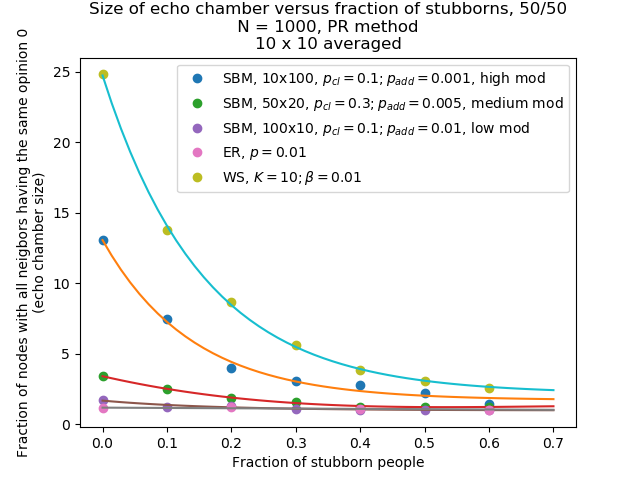
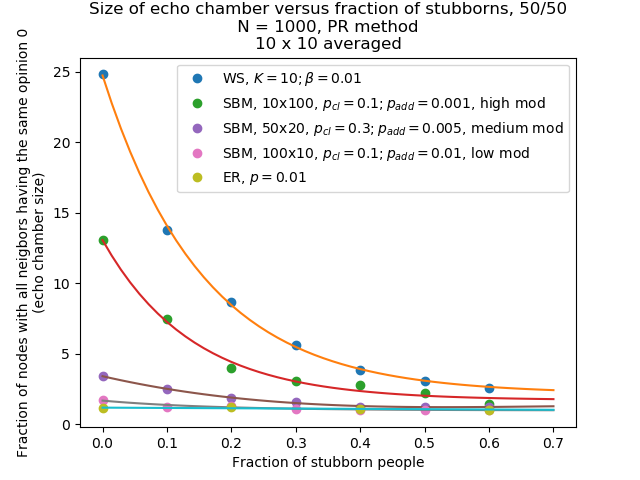
tried to implement way to calculate variance for the echo chambers; not sure if correct yet

diff --git a/main.cpp b/main.cpp
@@ -25,24 +25,24 @@ void distr_of_friends(){
     double p_bern = 0.1;
 
     // part needed for clustered random network
-    /*ifstream file;
+    ifstream file;
     file.open("Community_sizes_powerlaw.txt", ios::in);
     if(!file){
         cout << "No such file";
-    }*/
-    double p_add = 0.005;
-    vector<int> clusterSizes(50); // length of this vector determines the number of cluster and the elements determine the size of each cluster
-    vector<double> edgeProbs(50);
-    /*double x;
+    }
+    double p_add = 0.001;
+    vector<int> clusterSizes = {}; // length of this vector determines the number of cluster and the elements determine the size of each cluster
+    vector<double> edgeProbs = {};
+    double x;
     while (file >> x){
         clusterSizes.push_back(x);
         edgeProbs.push_back(0.5);
     }
-    file.close();*/
-    for (int i = 0; i < clusterSizes.size(); i++){
-        clusterSizes[i] = 20;
-        edgeProbs[i] = 0.3;
-    }
+    file.close();
+    /*for (int i = 0; i < clusterSizes.size(); i++){
+        clusterSizes[i] = 100;
+        edgeProbs[i] = 0.1;
+    }*/
 
     vector<double> fractionAt0(N);
     vector<double> fractionAt500(N);
@@ -51,30 +51,57 @@ void distr_of_friends(){
     vector<int> neighOp1HistAt500(numberOfBins);
     vector<int> neighOp1HistAt0(numberOfBins);
 
-    //double mod = 0.;
-    int stubborn = 0;
+    // needed to calculate variance (see https://jonisalonen.com/2013/deriving-welfords-method-for-computing-variance/)
+   /* double meanAt0op0 = 0.;
+    double oldMeanAt0op0 = 0.;
+    double meanAt0op1 = 0.;
+    double oldMeanAt0op1 = 0.;
+    double varAt0op0 = 0.;
+    double varAt0op1 = 0.;
+
+    double meanAt500op0 = 0.;
+    double oldMeanAt500op0 = 0.;
+    double meanAt500op1 = 0.;
+    double oldMeanAt500op1 = 0.;
+    double varAt500op0 = 0.;
+    double varAt500op1 = 0.;
+
+    int xAt0op0 = 0;
+    int xAt0op1 = 0;
+    int xAt500op0 = 0;
+    int xAt500op1 = 0;
+
+    vector<int> xVecAt0op0;
+    vector<int> xVecAt0op1;
+    vector<int> xVecAt500op0;
+    vector<int> xVecAt500op1;
+
+    int count = 1;*/
+
+    double mod = 0.;
+    //int stubborn = 0;
 
     // average over different networks
-    for (int n = 0; n < 10; n++){
-        //Clustered_Random_Network g = Clustered_Random_Network(N, clusterSizes, edgeProbs, p_add, "add");
-        Watts_Strogatz_Network g = Watts_Strogatz_Network(N, K, beta, initOp0Frac);
-        //mod += (g.calculateModularity()/10.);
+    for (int n = 0; n < 15; n++){
+        Clustered_Random_Network g = Clustered_Random_Network(N, clusterSizes, edgeProbs, p_add, "add");
+       // Watts_Strogatz_Network g = Watts_Strogatz_Network(N, K, beta, initOp0Frac);
+        mod += (g.calculateModularity()/15.);
         
         cout << "Graph " << n << endl;
 
         // for each network average over different simulation
-        for (int s = 0; s < 10; s++){
+        for (int s = 0; s < 15; s++){
             cout << "Simulation " << s << endl;
 
             // reset the initial opinions to start a new simulation for the same network + make nodes stubborn
             g.resetInitOpinion(initOp0Frac);
-            //g.makeRandomFractionStubborn(0.6);
+            //g.makeRandomFractionStubborn(0.1);
 
-            for (int i = 0; i < g.nodelist().size(); i++){
+           /* for (int i = 0; i < g.nodelist().size(); i++){
                 if (g.nodelist()[i].resistance() == 1.){
                     stubborn++;
                 }
-            }
+            }*/
 
             for (int i = 0; i < g.nodelist().size(); i++){
                 int opinion1 = 0;
@@ -91,9 +118,28 @@ void distr_of_friends(){
                     if (index0 == 10){
                         index0--;
                     }
+                    /*if (index0 == 0){
+                        xAt0op0++;
+                    }
+                    if (index0 == 9){
+                        xAt0op1++;
+                    }*/
                     neighOp1HistAt0[index0] += 1;  
                 }
             }
+            // calculate variance at t = 0 for all neigh having op0 and for all neigh having op1
+           /* oldMeanAt0op0 = meanAt0op0;
+            meanAt0op0 = meanAt0op0 + (double(xAt0op0) - meanAt0op0)/count;
+            varAt0op0 = varAt0op0 + (double(xAt0op0) - meanAt0op0) * (double(xAt0op0) - oldMeanAt0op0);
+            oldMeanAt0op1 = meanAt0op1;
+            meanAt0op1 = meanAt0op1 + (double(xAt0op1) - meanAt0op1)/count;
+            varAt0op1 = varAt0op1 + (double(xAt0op1) - meanAt0op1) * (double(xAt0op1) - oldMeanAt0op1);
+
+            xVecAt0op0.push_back(xAt0op0);
+            xVecAt0op1.push_back(xAt0op1);
+
+            xAt0op0 = 0;
+            xAt0op1 = 0;*/
 
             // let opinions evolve in time
             for (int i = 0; i < 500; i++){
@@ -117,23 +163,51 @@ void distr_of_friends(){
                     if (index500 == 10){
                         index500--;
                     }
+                    /*if (index500 == 0){
+                        xAt500op0++;
+                    }
+                    if (index500 == 9){
+                        xAt500op1++;
+                    }*/
                     neighOp1HistAt500[index500] += 1;
                 }
             }
+            // calculate variance at t = 500 for all neigh having op0 and for all neigh having op1
+           /* oldMeanAt500op0 = meanAt500op0;
+            meanAt500op0 = meanAt500op0 + (double(xAt500op0) - meanAt500op0)/count;
+            varAt500op0 = varAt500op0 + (double(xAt500op0) - meanAt500op0) * (double(xAt500op0) - oldMeanAt500op0);
+            oldMeanAt500op1 = meanAt500op1;
+            meanAt500op1 = meanAt500op1 + (double(xAt500op1) - meanAt500op1)/count;
+            varAt500op1 = varAt500op1 + (double(xAt500op1) - meanAt500op1) * (double(xAt500op1) - oldMeanAt500op1);
+
+            xVecAt500op0.push_back(xAt500op0);
+            xVecAt500op1.push_back(xAt500op1);
+            
+            xAt500op0 = 0;
+            xAt500op1 = 0;
+
+            count++; */
         }
     } 
 
-    //ofstream normfile("Hist_500_and_0_fraction_friends_opinion1_SBM_PR_03-0005_res=06_50x20.txt");
-    ofstream normfile("Hist_500_and_0_fraction_friends_opinion1_WS_PR_6-001_res=0_test.txt");
+    ofstream normfile("Hist_500_and_0_fraction_friends_opinion1_SBM_PR_05-0001_res=0_powerlaw_moreAv.txt");
+   /* ofstream varfile("Hist_500_and_0_fraction_friends_opinion1_WS_PR_6-001_res=0_mean_var.txt");
+    ofstream xfile("Hist_500_and_0_fraction_friends_opinion1_WS_PR_6-001_res=0_xvalues.txt");*/
     for (int i = 0; i < neighOp1HistAt500.size(); i++){
         double norm = double(neighOp1HistAt500[i]) / double(neighOp1HistAt0[i]);
         normfile << neighOp1HistAt500[i] << ' ' << neighOp1HistAt0[i] << ' ' << norm << endl;
     }
+    /*varfile << meanAt0op0 << ' ' << varAt0op0/double(count - 2) << '\n' << meanAt0op1 << ' ' << varAt0op1/double(count - 2) << '\n' <<  meanAt500op0 << ' ' << varAt500op0/double(count - 2) << '\n' << meanAt500op1 << ' ' << varAt500op1/double(count - 2) << endl;
+    for (int i = 0; i < 100; i++){
+        xfile << xVecAt0op0[i] << ' ' << xVecAt0op1[i] << ' ' << xVecAt500op0[i] << ' ' << xVecAt500op1[i] << endl;
+    }*/
     normfile.close();
-    stubborn = stubborn/100;
-    cout << stubborn << endl;
+   /* varfile.close();
+    xfile.close();*/
+    /*stubborn = stubborn/100;
+    cout << stubborn << endl;*/
 
-    //cout << mod << endl;
+    cout << mod << endl;
 }
 
 // function that calculates the evolution of opinions in a particular network

diff --git a/distr_friends_opinion1.py b/distr_friends_opinion1.py
@@ -3,15 +3,15 @@
 import numpy as np
 import matplotlib.pyplot as plt
 
-hist = np.loadtxt("Hist_500_and_0_fraction_friends_opinion1_SBM_PR_01-0001_res=0_10x100.txt")
-hist1 = np.loadtxt("Hist_500_and_0_fraction_friends_opinion1_WS_PR_10-001_res=0_test.txt")
+hist = np.loadtxt("Hist_500_and_0_fraction_friends_opinion1_SBM_REC_01-0001_res=0_10x100.txt")
+hist1 = np.loadtxt("Hist_500_and_0_fraction_friends_opinion1_WS_REC_10-001_res=0.txt")
 
 # probably need to change size of t and y back to 10!
 t = np.zeros(10)
 y = np.zeros(10)
 
 # altering data --> NOT GOOD!
-hist1[:,2][0] = hist1[:,2][0]/4
+hist1[:,2][0] = hist1[:,2][0]/2.5
 
 for i in range(10):
     t[i] = i/10
@@ -28,6 +28,6 @@ plt.ylim(0, 30)
 
 plt.legend(loc='best')
 
-plt.title('Normalized average distribution of friends with the same opinion 1\nN = 1000; PR method; res = 0\n10 x 10 averaged')
-plt.savefig('Normalized_hist_fraction_friends_opinion1_SBM_WS_PR_res=0.png')
+plt.title('Normalized average distribution of friends with the same opinion 1\nN = 1000; REC method; res = 0\n10 x 10 averaged')
+plt.savefig('Normalized_hist_fraction_friends_opinion1_SBM_WS_REC_res=0.png')
 plt.show()

diff --git a/echo_chamber_vs_stubborn.py b/echo_chamber_vs_stubborn.py
@@ -111,6 +111,8 @@ poptWS, pcovWS = curve_fit(func, stubborn, echoWS)
 print(poptWS)
 xf = np.linspace(0,0.7,50)
 
+plt.plot(stubborn, echoWS, 'o', label = r'WS, $K = 10; \beta = 0.01$')
+plt.plot(xf, func(xf, *poptWS))
 plt.plot(stubborn, echoSBMH, 'o', label = r'SBM, 10x100, $p_{cl} = 0.1; p_{add} = 0.001$, high mod')
 plt.plot(xf, func(xf, *poptSBMH))
 plt.plot(stubborn, echoSBM, 'o', label = r'SBM, 50x20, $p_{cl} = 0.3; p_{add} = 0.005$, medium mod')
@@ -119,8 +121,7 @@ plt.plot(stubborn, echoSBML, 'o', label = r'SBM, 100x10, $p_{cl} = 0.1; p_{add} 
 plt.plot(xf, func(xf, *poptSBML))
 plt.plot(stubborn[::2], echoER, 'o', label = r'ER, $p = 0.01$')
 plt.plot(xf, func_lin(xf, *poptER))
-plt.plot(stubborn, echoWS, 'o', label = r'WS, $K = 10; \beta = 0.01$')
-plt.plot(xf, func(xf, *poptWS))
+
 plt.xlabel("Fraction of stubborn people")
 plt.ylabel("Fraction of nodes with all neigbors having the same opinion 0\n(echo chamber size)")
 plt.legend(loc='best')
